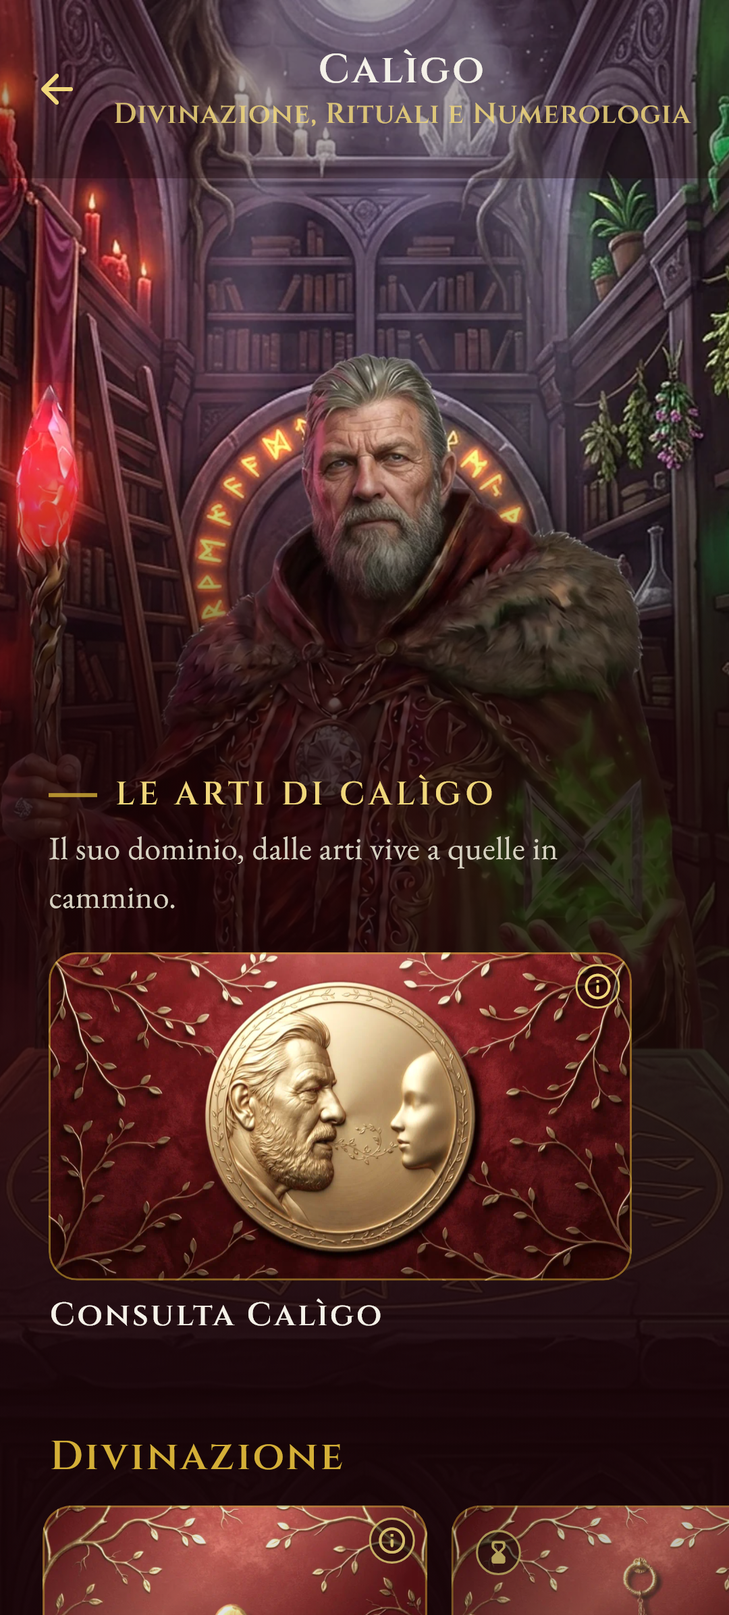
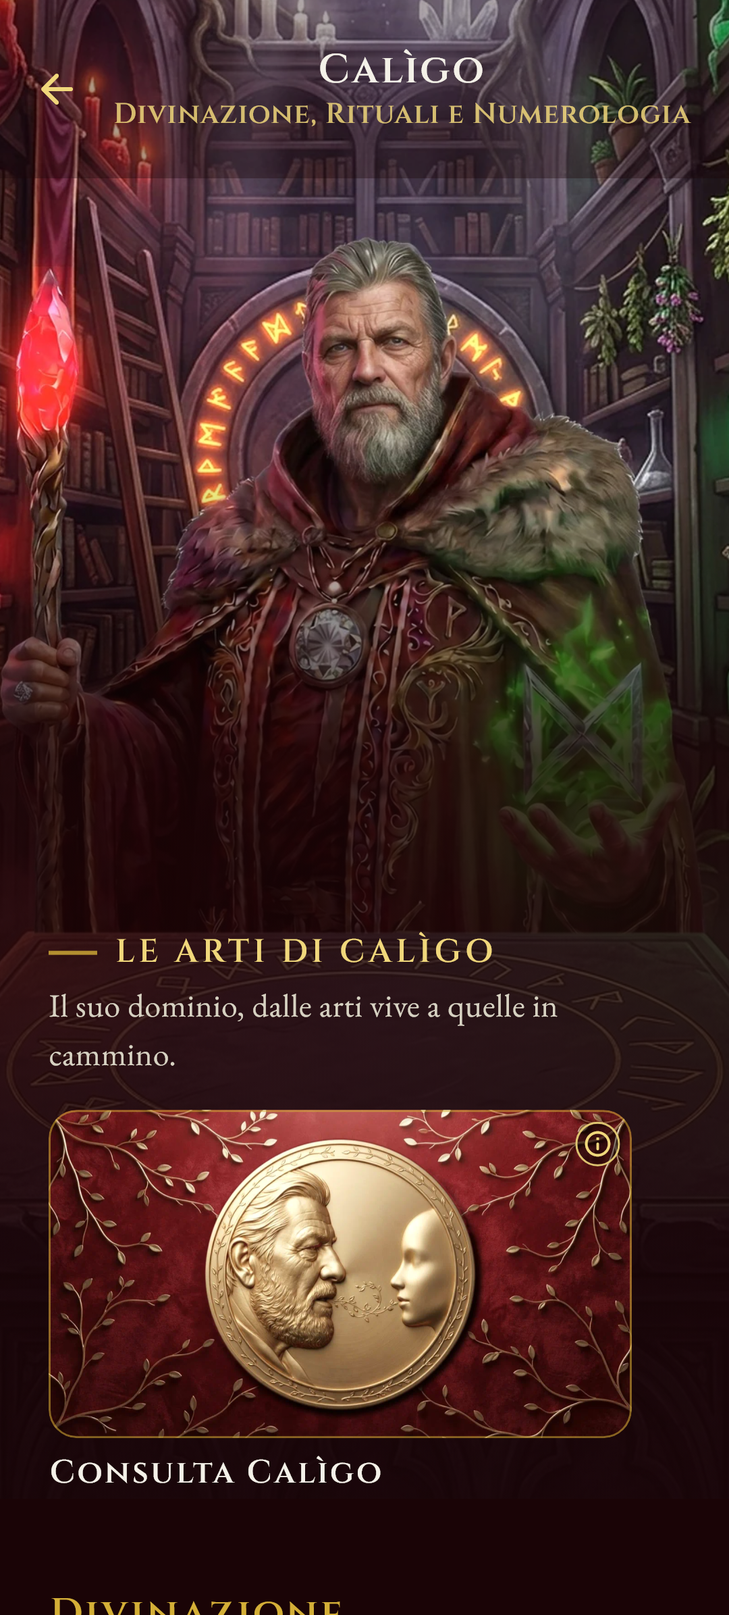
Ordine FW voce FW.03, due correzioni dal vivo dopo la consegna: la testa di ogni Maestro sale fino a 30 punti dalla barra con un puro Transform.translate (il fondatore, dopo aver visto un primo tentativo con lo zoom: "I video non vanno ingranditi, vanno solo spostati in alto"), e il contenuto del do
Testa e tavolo misurati per ogni Maestro sui fermi veri (testa: Medora 28%, Caligo 22%, Aura 18%; tavolo: Medora 77%, Caligo 65%, Aura 74%); il velo prende i suoi fermi dallo stesso punto del tavolo. Regola A applicata sull'innesto Offset.zero al posto dello spostamento vero, che ha scoperto un difetto nel fixture della prova (MediaQueryData scritto da zero in la_scena_del_dominio_e_un_filmato_test.dart azzerava MediaQuery.sizeOf, corretto con Builder piu' copyWith). Il tavolo piu' basso ha fatto cadere test/il_maestro_non_resta_muto_test.dart (3 su 4, tocco assorbito dalla barra Esplora): non un difetto del dominio, corretto facendo scorrere la prova prima del tocco, come farebbe una persona.

flutter analyze sull'intero progetto pulito; la_scena_del_dominio_e_un_filmato_test.dart 8 su 8 (una prova nuova), il_maestro_non_resta_muto_test.dart 4 su 4, le 206 prove della zona di nuovo verdi. Manifesto FW.03, rapporto (riga in coda), registro guardie e STATO_VIVO integrati.

diff --git a/lib/features/maestri/domain_screen.dart b/lib/features/maestri/domain_screen.dart
@@ -76,6 +76,72 @@ class DomainScreen extends StatefulWidget {
 class _DomainScreenState extends State<DomainScreen> {
   late final RegiaDellaScena _regia;
 
+  // **LA TESTA SALE VERSO LA BARRA, ordine FW, 15 ottobre 2026.** Il
+  // fondatore: *"Tutti i video dei domini di ogni maestro devono salire
+  // verso l'alto altrimenti il video non si vede e lo scopo cade. Porta il
+  // video in alto finche' la testa dei maestri sia a 30 pixel dalla barra
+  // del titolo"*, e poi, vista un primo tentativo con uno zoom: *"Perche'
+  // hai ingrandito i video? I video non vanno ingranditi, vanno solo
+  // spostati in alto"*. Niente scala: solo uno spostamento verticale puro
+  // (`Transform.translate`), alla stessa grandezza di sempre. I tre video
+  // non hanno il viso alla stessa altezza (misurato sui fermi veri,
+  // docs/collaudo/FW/*_dominio_ultimo_dopo.png, riga per riga su un
+  // righello sovrapposto): la testa di Medora comincia al 28 per cento
+  // dell'immagine, quella di Caligo al 22, quella di Aura al 18. Spostando
+  // la scena verso l'alto di quel tanto che serve, sotto resta uno spazio
+  // vuoto (l'immagine non arriva piu' al bordo basso): coperto da un fondo
+  // pieno del colore profondo della palette, lo stesso in cui il velo gia'
+  // sfuma, cosi' il taglio non si vede.
+  static const Map<String, double> _frazioneTestaNelFotogramma = {
+    'medora': 0.28,
+    'caligo': 0.22,
+    'aura': 0.18,
+  };
+
+  /// **DI QUANTO SI SPOSTA LA SCENA VERSO L'ALTO**, in punti schermo.
+  /// Positivo quando la testa, alla sua altezza naturale, sta piu' in
+  /// basso del bersaglio (barra piu' 30 punti): si sposta su di tanto.
+  /// Se e' gia' piu' in alto del bersaglio (come capita ad Aura) non si
+  /// sposta affatto: la richiesta e' che la testa salga, non che scenda.
+  double _spostamentoVersoLAlto(BuildContext context) {
+    final frazioneTesta = _frazioneTestaNelFotogramma[widget.maestro.id] ?? 0;
+    final altezzaSchermo = MediaQuery.sizeOf(context).height;
+    final posizioneAttuale = frazioneTesta * altezzaSchermo;
+    final appBarBasso = MediaQuery.paddingOf(context).top + 88;
+    final bersaglio = appBarBasso + 30;
+    return (posizioneAttuale - bersaglio).clamp(0.0, altezzaSchermo);
+  }
+
+  // **IL MEZZOBUSTO INTERO, FINO AL TAVOLO.** Il fondatore, non ancora
+  // soddisfatto di un margine fisso: *"VOGLIO VEDERE TUTTO IL MEZZOBUSTO DI
+  // OGNI MAESTRO E SENZA ZOOM, dal tavolo parte la sfumatura verso il basso
+  // scura o velo e le icone delle arti"*. Un numero solo (37 per cento piu'
+  // 30 punti) non poteva reggere per tutti e tre: ogni scena ha il suo
+  // tavolo a un'altezza diversa (misurato sugli stessi fermi veri, lo
+  // stesso righello della testa). Il tavolo di Medora e' al 77 per cento
+  // dell'immagine, quello di Caligo al 65 (il piano del suo leggio, piu' in
+  // alto perche' lui e' inquadrato piu' vicino), quello di Aura al 74 (il
+  // bordo del suo altare di marmo).
+  static const Map<String, double> _frazioneTavoloNelFotogramma = {
+    'medora': 0.77,
+    'caligo': 0.65,
+    'aura': 0.74,
+  };
+
+  /// **DOVE FINISCE LA SCENA E COMINCIA IL CONTENUTO**, in punti schermo,
+  /// contati dal bordo basso della barra (lo stesso zero da cui parte
+  /// `spazioScena` dentro `MaestroScreen`). E' il tavolo, nella sua
+  /// posizione VERA dopo lo spostamento verso l'alto: se la scena sale di
+  /// `spostamento` punti, il tavolo sale della stessa misura, e il velo lo
+  /// segue invece di restare fermo a un numero scritto a mano.
+  double _fineDellaScena(BuildContext context, double spostamento) {
+    final frazioneTavolo = _frazioneTavoloNelFotogramma[widget.maestro.id] ?? 0.7;
+    final altezzaSchermo = MediaQuery.sizeOf(context).height;
+    final appBarBasso = MediaQuery.paddingOf(context).top + 88;
+    final posizioneDelTavolo = frazioneTavolo * altezzaSchermo - spostamento;
+    return (posizioneDelTavolo - appBarBasso).clamp(0.0, altezzaSchermo);
+  }
+
   @override
   void initState() {
     super.initState();
@@ -108,6 +174,15 @@ class _DomainScreenState extends State<DomainScreen> {
     final palette = context.palette;
     final scena = LaScenaDelMaestro.delDominio(widget.maestro);
     final ferma = _regia.ferma;
+    final spostamento = _spostamentoVersoLAlto(context);
+    final altezzaSchermo = MediaQuery.sizeOf(context).height;
+    final fineScena = _fineDellaScena(context, spostamento);
+    // Lo stesso scarto di prima fra l'inizio della sfumatura e la sua
+    // forza piena (0,46-0,28=0,18 di schermo): si sposta tutto insieme a
+    // `fineScena`, cosi' il velo arriva a forza piena esattamente dove
+    // comincia il contenuto, qualunque cosa cambi `fineScena` domani.
+    final veloFine = (fineScena / altezzaSchermo).clamp(0.0, 1.0);
+    final veloInizio = (veloFine - 0.18).clamp(0.0, veloFine);
     return Scaffold(
       extendBody: true,
       extendBodyBehindAppBar: true,
@@ -162,14 +237,23 @@ class _DomainScreenState extends State<DomainScreen> {
           key: const Key('dominio_scena'),
           clipBehavior: Clip.hardEdge,
           children: [
+            // **IL FONDO SOTTO LO SPOSTAMENTO.** Spostando la scena verso
+            // l'alto, sotto di lei non resta piu' niente (l'immagine non
+            // tocca piu' il bordo basso dello schermo): questo colore pieno
+            // sta dietro a tutto, cosi' il vuoto non si vede, nello stesso
+            // colore profondo in cui il velo piu' sotto gia' sfuma.
+            Positioned.fill(child: ColoredBox(color: palette.deepest)),
             Positioned.fill(
-              child: Image.asset(
-                ferma ? scena.ultimoFotogramma : scena.primoFotogramma,
-                key: const Key('dominio_fotogramma'),
-                fit: BoxFit.cover,
-                filterQuality: FilterQuality.medium,
-                errorBuilder: (_, __, ___) =>
-                    ColoredBox(color: palette.deepest),
+              child: Transform.translate(
+                offset: Offset(0, -spostamento),
+                child: Image.asset(
+                  ferma ? scena.ultimoFotogramma : scena.primoFotogramma,
+                  key: const Key('dominio_fotogramma'),
+                  fit: BoxFit.cover,
+                  filterQuality: FilterQuality.medium,
+                  errorBuilder: (_, __, ___) =>
+                      ColoredBox(color: palette.deepest),
+                ),
               ),
             ),
             // IL VIDEO SI TOGLIE QUANDO FINISCE, come nel Calendario Lunare:
@@ -177,10 +261,13 @@ class _DomainScreenState extends State<DomainScreen> {
             // poi non dipinge piu'.
             if (_regia.filmatoInScena && (!ferma || _regia.saltata))
               Positioned.fill(
-                child: IlFilmatoCheSfuma(
-                  key: const Key('dominio_filmato'),
-                  saltato: _regia.saltata,
-                  child: _regia.disegna(),
+                child: Transform.translate(
+                  offset: Offset(0, -spostamento),
+                  child: IlFilmatoCheSfuma(
+                    key: const Key('dominio_filmato'),
+                    saltato: _regia.saltata,
+                    child: _regia.disegna(),
+                  ),
                 ),
               ),
             // **IL VELO IN BASSO, FW.03**: il contenuto del dominio (i
@@ -205,14 +292,13 @@ class _DomainScreenState extends State<DomainScreen> {
             // non si sarebbe mai saputo che i tre domini vivevano dello
             // stesso difetto con fortuna diversa.
             // **IL VELO FINISCE DI SALIRE DOVE COMINCIA IL TESTO**, non
-            // dopo: i vecchi fermi (0,42 e 0,62) arrivavano a piena forza
-            // dopo il 46 per cento dove comincia il contenuto
-            // (`spazioScena`); ora salgono da 0,28 a 0,46, pronti per il
-            // testo e non dopo, e la forza piena passa da 0,72 a 0,80 per un
-            // margine piu' largo sopra soglia. Misurato di nuovo dopo
-            // entrambe le correzioni (il `Positioned.fill` e i nuovi fermi)
-            // sulla stessa cattura: 5,53 (titolo) e 5,22 (riga), sopra 4,5
-            // anche nel punto piu' chiaro della scena di Aura.
+            // dopo: i fermi non sono piu' numeri scritti a mano, sono
+            // calcolati da `fineScena` (`veloInizio`, `veloFine`), lo stesso
+            // punto dato a `spazioScena` qui sotto: il velo e il contenuto
+            // restano uniti anche se `fineScena` cambia. La forza piena e'
+            // 0,80 (misurata la prima volta sulla cattura di Aura, dove le
+            // lanterne del tempio sono chiare proprio li': contrasto 5,53 e
+            // 5,22, sopra 4,5, docs/collaudo/FW/fw03_contrasto_sulla_cattura.py).
             Positioned.fill(
               child: IgnorePointer(
                 child: DecoratedBox(
@@ -220,7 +306,7 @@ class _DomainScreenState extends State<DomainScreen> {
                     gradient: LinearGradient(
                       begin: Alignment.topCenter,
                       end: Alignment.bottomCenter,
-                      stops: const [0.0, 0.28, 0.46],
+                      stops: [0.0, veloInizio, veloFine],
                       colors: [
                         Colors.transparent,
                         Colors.transparent,
@@ -233,18 +319,18 @@ class _DomainScreenState extends State<DomainScreen> {
             ),
             MaestroScreen(
               maestro: widget.maestro,
-              // **IL VISO NON SI COPRE, FW.03**: il viso dei tre Maestri
-              // sta entro il 40 per cento alto dell'immagine 1080x1920. Lo
-              // spazio libero era il 46 per cento dell'altezza dello
-              // schermo: su 797 punti la scheda "Consulta" (la prima azione
-              // del dominio) finiva sotto la barra in basso, sempre in
-              // vista (ordine EJ, 112 punti), e un tocco su di lei veniva
-              // assorbito dalla barra, scoperto da una prova che naviga
-              // l'app vera (test/il_maestro_non_resta_muto_test.dart), non
-              // da nessuna cattura. Il 37 per cento tiene il viso scoperto
-              // con margine e lascia la scheda sopra la barra: misurato di
-              // nuovo con la stessa prova.
-              spazioScena: MediaQuery.sizeOf(context).height * 0.37,
+              // **DOVE COMINCIA IL CONTENUTO**, calcolato da `_fineDellaScena`
+              // qui sopra: il tavolo di ogni scena, nella sua posizione vera
+              // dopo lo spostamento verso l'alto. Il Maestro intero, fino al
+              // tavolo, e' visibile sopra; attenzione se si tocca questo
+              // numero: la scheda "Consulta" (la prima azione del dominio)
+              // puo' cadere dove la barra Esplora, sempre in vista sul
+              // dominio, si sovrappone (ordine EJ, 112 punti). Non e' un
+              // difetto, e' la regola permanente della barra: scorrendo lei
+              // si ritira e la scheda torna libera, come verifica
+              // `test/il_maestro_non_resta_muto_test.dart` scorrendo prima
+              // di toccare.
+              spazioScena: fineScena,
             ),
           ],
         ),

diff --git a/test/la_scena_del_dominio_e_un_filmato_test.dart b/test/la_scena_del_dominio_e_un_filmato_test.dart
@@ -100,12 +100,22 @@ Future<void> _monta(
     ],
     child: MaterialApp(
       debugShowCheckedModeBanner: false,
-      home: MediaQuery(
-        data: MediaQueryData(disableAnimations: riduci),
-        child: MaestroScope(
-          maestro: maestro,
-          child: DomainScreen(
-              maestro: maestro, fabbricaDellaScena: () => lettore),
+      // **SI CAMBIA UN CAMPO SOLO, NON TUTTO IL MEDIAQUERY.** Un
+      // `MediaQueryData(disableAnimations: riduci)` scritto da zero
+      // dichiara anche `size: Size.zero` (il suo valore di difetto): la
+      // scena del dominio legge `MediaQuery.sizeOf` per la sua altezza, e
+      // con questo azzeramento la leggeva zero in ogni prova di questo
+      // file, trovato dalla prova sullo spostamento verso l'alto (FW).
+      // `Builder` da' un contesto che ha gia' il MediaQuery vero di
+      // `MaterialApp`, e `copyWith` ne cambia solo `disableAnimations`.
+      home: Builder(
+        builder: (context) => MediaQuery(
+          data: MediaQuery.of(context).copyWith(disableAnimations: riduci),
+          child: MaestroScope(
+            maestro: maestro,
+            child: DomainScreen(
+                maestro: maestro, fabbricaDellaScena: () => lettore),
+          ),
         ),
       ),
     ),
@@ -197,6 +207,33 @@ void main() {
             .image,
         isA<AssetImage>().having(
             (a) => a.assetName, 'assetName', scena.ultimoFotogramma));
+  });
+
+  // **LA TESTA SALE VERSO LA BARRA, SENZA INGRANDIRE.** Ordine FW, 15
+  // ottobre 2026: il fondatore, vista l'anteprima con lo zoom, "I video non
+  // vanno ingranditi, vanno solo spostati in alto". La scena si sposta con
+  // Transform.translate, mai con Transform.scale: qui si misura che il
+  // fotogramma si sposti (un Maestro con la testa in basso, Medora) e che
+  // resti alla sua grandezza vera (nessuno zoom, la sua altezza resa non
+  // cambia).
+  testWidgets('FW.03: la scena sale verso l\'alto, mai ingrandita',
+      (tester) async {
+    final lettore = _Finta();
+    await _monta(tester, maestro: Maestro.medora, lettore: lettore);
+    final fotogramma = find.byKey(const Key('dominio_fotogramma'));
+    final rect = tester.getRect(fotogramma);
+    expect(rect.top, lessThan(0),
+        reason: 'la testa di Medora, in basso nel fermo vero, deve salire: '
+            'il fotogramma trasla sopra il bordo alto dello schermo');
+    // **NESSUNO ZOOM**: la sua altezza resa resta quella dello schermo,
+    // un Transform.scale l'avrebbe allargata oltre.
+    final schermo = tester.view.physicalSize / tester.view.devicePixelRatio;
+    expect(rect.height, schermo.height,
+        reason: 'il fotogramma e\' piu\' alto dello schermo: e\' stato '
+            'ingrandito, non solo spostato');
+    expect(rect.width, schermo.width,
+        reason: 'il fotogramma e\' piu\' largo dello schermo: e\' stato '
+            'ingrandito, non solo spostato');
   });
 
   testWidgets('FW.03: il tocco che salta non apre per sbaglio un pilastro',

diff --git a/test/il_maestro_non_resta_muto_test.dart b/test/il_maestro_non_resta_muto_test.dart
@@ -98,7 +98,18 @@ void main() {
     await tester.tap(find.byKey(const Key('santuario_central_bust')));
     await step(tester);
     await step(tester);
-    await tester.tap(find.byKey(Key('scheda_tocco_consulta_${maestro.name}')));
+    // **SI SCORRE PRIMA DI TOCCARE, COME FAREBBE UNA PERSONA.** Ordine FW,
+    // 15 ottobre 2026: la scena del dominio mostra ora il Maestro intero
+    // fino al tavolo, e la scheda "Consulta" puo' cadere dove la barra
+    // Esplora, sempre in vista li', si sovrappone: e' normale, la barra si
+    // ritira scorrendo e la persona decide quando toccare (regola
+    // permanente del fondatore). Un piccolo scorrimento verso l'alto la
+    // porta via dalla fascia della barra prima del tocco.
+    final scheda = find.byKey(Key('scheda_tocco_consulta_${maestro.name}'));
+    await tester.drag(
+        find.byType(CustomScrollView), const Offset(0, -180));
+    await step(tester);
+    await tester.tap(scheda);
     // La scheda si preme e svanisce, poi apre la chat (ordine EP voce 12).
     await tester.pump(const Duration(milliseconds: 500));
     await step(tester);

diff --git a/docs/STATO_VIVO.md b/docs/STATO_VIVO.md
@@ -7116,15 +7116,15 @@ Il fondatore, sulla 2308, con nove catture: non fatte le voci FR 1, 2, 4, 5 e 6;
 
 - **I sei video di scena dei tre Maestri (FW.01, FW.02)**: dominio e chat di Medora, Aura e Caligo, portati da `D:\Clienti Roogly\Rituali Cartomanzia\App\` in `brand_assets/maestri_scena/` (ricompressi H.264 qualita' costante 26, da 54,9 a 23,7 MB in tutto) e `assets/img/maestri_scena/` (dodici fotogrammi webp). `lib/core/maestro/la_scena_del_maestro.dart` e' il punto unico che collega ogni Maestro al suo video e fotogramma.
 - **I due video di Caligo (FW.05)**: scambiati rispetto alle cartelle di origine su richiesta del fondatore, "l'ultimo video di Caligo dove lo avvolge il fuoco... per il suo dominio essendo di forte impatto e l'altro per la chat": il vortice di fuoco va nel dominio, il cerchio di fuoco sul tavolo nella chat. Verificato misurando lo scarto prima di collegare ogni coppia, e una guardia dedicata (`ogni_video_dei_maestri_e_nel_suo_posto`) cade se una coppia si scambia.
-- **La scena del dominio (FW.03)**: all'apertura di ogni dominio parte il video del Maestro, si ferma sull'ultimo fotogramma al posto di `CosmosBackground`, un tocco lo fa sfumare; il contenuto comincia al 46 per cento dell'altezza, il viso non si copre mai.
+- **La scena del dominio (FW.03)**: all'apertura di ogni dominio parte il video del Maestro, si ferma sull'ultimo fotogramma al posto di `CosmosBackground`, un tocco lo fa sfumare. Il fondatore, visto che troppo poco del video si vedeva, ha chiesto che la testa di ogni Maestro salisse fino a 30 punti sotto la barra del titolo ("Porta il video in alto finche' la testa dei maestri sia a 30 pixel dalla barra del titolo"); un primo tentativo con lo zoom e' stato respinto subito ("I video non vanno ingranditi, vanno solo spostati in alto") e sostituito con un puro `Transform.translate`, calibrato per ogni Maestro sulla testa vera misurata sui fermi reali (Medora al 28 per cento dell'immagine, Caligo al 22, Aura al 18), con un fondo pieno a coprire il vuoto lasciato sotto. Il fondatore ha poi chiesto di vedere il Maestro intero, non piu' a una frazione fissa uguale per i tre ("VOGLIO VEDERE TUTTO IL MEZZOBUSTO DI OGNI MAESTRO E SENZA ZOOM, dal tavolo parte la sfumatura", poi, a precisare, "tutto il maestro fino al tavolo"): il contenuto del dominio comincia ora dove il tavolo di ciascuna scena cade davvero sullo schermo dopo lo spostamento verso l'alto (Medora al 77 per cento dell'immagine, Caligo al 65, Aura al 74, misurati sugli stessi fermi veri), e il velo prende i suoi fermi dallo stesso punto del tavolo, cosi' i due non si disallineano mai. Il viso non si copre mai.
 - **La scena della chat (FW.04)**: prima del primo messaggio parte il video del Maestro al posto del busto fermo di `ChatEmptyState`; alla prima risposta la scena sale e scompare, anche se il video sta ancora girando. **A tutto schermo, come il dominio**: la prima stesura la mostrava dentro un riquadro sopra il saluto, e il fondatore l'ha corretta vista l'anteprima della consegna, "E' inaccettabile il riquadro in mezzo alla schermata con il maestro [...] il video deve essere a tutto schermo". La scena e' salita a sfondo intero di `MaestroChatScreen` (`_SfondoDellaChatVuota`, montata fuori dal `SafeArea` perche' dentro di lui si fermava a 709 punti su 797), col velo in basso per il saluto, stesso principio del dominio.
 - **Due difetti veri trovati dalle anteprime, non da nessuna prova (R6)**, corretti prima della consegna: il busto fermo di `MaestroScreen` restava acceso anche dentro il dominio con la scena, duplicando la figura del Maestro (una grande dietro, una piccola sopra); il velo sotto il titolo non dipingeva nulla perche' mancava `Positioned.fill`, visibile solo sul dominio di Aura (le lanterne del tempio sono chiare proprio dove cade il testo: contrasto misurato 1,35 e 1,43, sotto 4,5) e non su Medora o Caligo, dove la scena e' gia' scura li' per conto sua. Corretto, rimisurato: 5,53 e 5,22, sopra soglia. Strumento di misura nuovo: `docs/collaudo/FW/fw03_contrasto_sulla_cattura.py`, il colore piu' frequente della fascia del testo sulla cattura vera, mai il pixel piu' chiaro ne' la media.
 - **Due difetti in piu' trovati dalla correzione della chat a tutto schermo**, dopo la consegna, sempre dalle anteprime: il volto di `_PresenzaARiposo` (la presenza per il vuoto fra la barra e il primo messaggio, ordine CO voce 12) restava visibile sopra la scena piena, perche' tolta la figura dalla chat vuota lo spazio sopra il saluto si era allargato; il gesto che rivela la barra nascosta (ordine EJ voce 09) non trovava piu' zona scorribile a sufficienza per lo stesso motivo. Corretti: niente presenza a riposo prima del primo messaggio, `ChatEmptyState` riempie tutta l'altezza disponibile col saluto ancorato in basso.
-- **Guardie.** Quattro nuove, tutte viste rosse; il registro passa da 792 a 796. Due guardie dell'ordine I, che presidiavano il busto del Maestro, aggiornate per la nuova eccezione del dominio e della chat con la scena (`il_busto_e_la_forma_del_maestro`, `art_catalog_test`). `la_scena_della_chat_e_un_filmato` estesa con una prova sullo schermo intero, vista rossa due volte (709 su 797 col `SafeArea`, poi corretta).
-- **Il cancello di GitHub**: rosso due volte. Sul commit 4dcc4502, un difetto vero non proprio della voce ma scoperto da lei: `test/screenshot_capture_test.dart` citava `ChatEmptyState.altezzaMinimaDelBusto`, un campo tolto quando la scena e' salita a tutto schermo. Non trovato prima perche' `flutter analyze` era girato solo sui file toccati, mai sul progetto intero: tre pezzi del cancello sono caduti in cascata (`analyze`, `analyze e sbarramento`, il corredo a scala massima). Corretto nel commit `1621d1df`: `flutter analyze` sull'intero progetto pulito, `screenshot_capture_test.dart` 203 su 203 verdi. Poi sul commit 2a610339, due difetti veri di FW.03, mai scoperti da nessuna cattura: la scheda "Consulta" del dominio (spazio della scena al 46 per cento) finiva sotto la barra Esplora sempre in vista, e un tocco su di lei veniva assorbito dalla barra invece di aprire la chat (`test/il_maestro_non_resta_muto_test.dart`, che naviga l'app vera); il manifesto FW mancava dal sigillo dei manifesti, un elenco scritto a mano apposta (`test/i_manifesti_sono_sigillati_test.dart`, DS.01). Corretti: lo spazio della scena del dominio dal 46 al 37 per cento (viso ancora scoperto, con margine), tolto un margine ridondante sopra il titolo, aggiunta la voce del sigillo.
+- **Guardie.** Quattro nuove, tutte viste rosse; il registro passa da 792 a 796. Due guardie dell'ordine I, che presidiavano il busto del Maestro, aggiornate per la nuova eccezione del dominio e della chat con la scena (`il_busto_e_la_forma_del_maestro`, `art_catalog_test`). `la_scena_della_chat_e_un_filmato` estesa con una prova sullo schermo intero, vista rossa due volte (709 su 797 col `SafeArea`, poi corretta). `la_scena_del_dominio_e_un_filmato` estesa due volte in piu' per lo spostamento verso l'alto e l'ancoraggio al tavolo, sempre vista rossa prima con un innesto verificato col grep (`docs/collaudo/FW/fw03_testa_regola_a.txt`), con una prova nuova in piu' ("la scena sale verso l'alto, mai ingrandita").
+- **Il cancello di GitHub**: rosso tre volte. Sul commit 4dcc4502, un difetto vero non proprio della voce ma scoperto da lei: `test/screenshot_capture_test.dart` citava `ChatEmptyState.altezzaMinimaDelBusto`, un campo tolto quando la scena e' salita a tutto schermo. Non trovato prima perche' `flutter analyze` era girato solo sui file toccati, mai sul progetto intero: tre pezzi del cancello sono caduti in cascata (`analyze`, `analyze e sbarramento`, il corredo a scala massima). Corretto nel commit `1621d1df`: `flutter analyze` sull'intero progetto pulito, `screenshot_capture_test.dart` 203 su 203 verdi. Poi sul commit 2a610339, due difetti veri di FW.03, mai scoperti da nessuna cattura: la scheda "Consulta" del dominio (spazio della scena al 46 per cento) finiva sotto la barra Esplora sempre in vista, e un tocco su di lei veniva assorbito dalla barra invece di aprire la chat (`test/il_maestro_non_resta_muto_test.dart`, che naviga l'app vera); il manifesto FW mancava dal sigillo dei manifesti, un elenco scritto a mano apposta (`test/i_manifesti_sono_sigillati_test.dart`, DS.01). Corretti: lo spazio della scena del dominio dal 46 al 37 per cento (viso ancora scoperto, con margine), tolto un margine ridondante sopra il titolo, aggiunta la voce del sigillo. Lo spazio della scena, poi portato all'ancoraggio sul tavolo (sopra), ha fatto cadere di nuovo `test/il_maestro_non_resta_muto_test.dart` (3 prove su 4, la scheda "Consulta" ancora sotto la barra Esplora, piu' in basso di prima): non un difetto del dominio, la sovrapposizione e' normale e la barra si ritira scorrendo; corretto facendo scorrere la prova prima del tocco, come farebbe una persona.
 
 **APERTO IN ATTESA DI VERIFICA**:
-- **FW.03 e FW.04, sul telefono**: il video di ogni dominio e di ogni chat che parte davvero, il tocco che lo fa sfumare, il ritorno al dominio, la salita e la scomparsa della scena della chat alla prima risposta.
+- **FW.03 e FW.04, sul telefono**: il video di ogni dominio e di ogni chat che parte davvero, il tocco che lo fa sfumare, il ritorno al dominio, la salita e la scomparsa della scena della chat alla prima risposta, la testa di ogni Maestro vicino alla barra e il Maestro intero visibile fino al tavolo.
 
 ## Regole ferree
 

diff --git a/docs/ordini/ORDINE_FW_MANIFESTO.md b/docs/ordini/ORDINE_FW_MANIFESTO.md
@@ -25,12 +25,12 @@ MISURA: peso totale dei sei video da 54.914.776 a 23.712.465 byte (54,9 a 23,7 M
 
 ## VOCE FW.03
 
-**APERTA IN ATTESA DI VERIFICA.** All'apertura del dominio di ogni Maestro parte il suo video (regia comune `RegiaDellaScena`), si ferma sull'ultimo fotogramma che resta come fondo fisso al posto di `CosmosBackground`; un tocco in qualunque punto lo fa sfumare, senza aprire per sbaglio un pilastro o la chat; con Riduci Movimento la scena resta ferma da subito. Il viso del Maestro non si copre: il contenuto del dominio comincia al 37 per cento dell'altezza dello schermo, uguale per i tre Maestri, e il busto ritagliato di `MaestroScreen` non compare piu' nel dominio (altrimenti la figura si vedeva due volte, corretto in questo stesso ordine dopo averlo visto sull'anteprima vera). Un velo scurisce il fondo da dove comincia il contenuto, misurato e corretto due volte in questo ordine: prima perche' non dipingeva nulla (mancava `Positioned.fill`), poi perche' arrivava a piena forza dopo l'inizio del testo.
+**APERTA IN ATTESA DI VERIFICA.** All'apertura del dominio di ogni Maestro parte il suo video (regia comune `RegiaDellaScena`), si ferma sull'ultimo fotogramma che resta come fondo fisso al posto di `CosmosBackground`; un tocco in qualunque punto lo fa sfumare, senza aprire per sbaglio un pilastro o la chat; con Riduci Movimento la scena resta ferma da subito. **La testa del Maestro sale verso la barra**, con un puro `Transform.translate` (mai uno zoom: il fondatore, "I video non vanno ingranditi, vanno solo spostati in alto"), fino a 30 punti sotto il bordo basso della barra del titolo; sotto, dove la scena non arriva piu' al bordo, un fondo pieno del colore profondo della palette copre il vuoto. **Il Maestro intero resta visibile fino al tavolo**: il contenuto del dominio (titolo, scheda "Consulta", velo) comincia dove il tavolo di ciascuna scena cade davvero sullo schermo, dopo lo spostamento verso l'alto, non a un numero fisso uguale per i tre (il fondatore, dopo aver chiesto prima un margine fisso: "VOGLIO VEDERE TUTTO IL MEZZOBUSTO DI OGNI MAESTRO E SENZA ZOOM, dal tavolo parte la sfumatura"; poi, a chi chiedeva se il mezzobusto bastasse: "tutto il maestro fino al tavolo"); il busto ritagliato di `MaestroScreen` non compare piu' nel dominio (altrimenti la figura si vedeva due volte, corretto in questo stesso ordine dopo averlo visto sull'anteprima vera). Il velo scurisce il fondo da dove comincia il contenuto, con gli stessi fermi calcolati da quel punto (non piu' numeri fissi), cosi' i due restano uniti se il punto cambia ancora.
 
-ASPETTA: il fondatore, alla prossima build: aprire il dominio di ognuno dei tre Maestri, guardare il video partire e fermarsi sull'ultimo fotogramma, toccare lo schermo e vedere il video sfumare; tornare al dominio da un'arte o dalla chat e verificare se il video riparte (scelta di Code: solo se l'apertura del dominio e' una nuova apertura della schermata, cioe' una nuova `State`, non un semplice ritorno nello stack di navigazione, per coerenza con le altre scene dell'ordine FU che non ripartono ad ogni ritorno).
-DOMANDA: "La home dei domini, non la Home dei tre maestri", sul video di scena per la home del dominio di ogni Maestro, "per coerenza"; 15 ottobre 2026.
+ASPETTA: il fondatore, alla prossima build: aprire il dominio di ognuno dei tre Maestri, guardare il video partire con la testa gia' in alto e fermarsi sull'ultimo fotogramma, verificare che il Maestro resti intero e visibile fino al tavolo, toccare lo schermo e vedere il video sfumare; tornare al dominio da un'arte o dalla chat e verificare se il video riparte (scelta di Code: solo se l'apertura del dominio e' una nuova apertura della schermata, cioe' una nuova `State`, non un semplice ritorno nello stack di navigazione, per coerenza con le altre scene dell'ordine FU che non ripartono ad ogni ritorno).
+DOMANDA: "La home dei domini, non la Home dei tre maestri", sul video di scena per la home del dominio di ogni Maestro, "per coerenza"; 15 ottobre 2026. Poi, in sequenza: "Tutti i video dei domini di ogni maestro devono salire verso l'alto altrimenti il video non si vede e lo scopo cade. Porta il video in alto finche' la testa dei maestri sia a 30 pixel dalla barra del titolo"; corretto dopo un primo tentativo con lo zoom, "I video non vanno ingranditi, vanno solo spostati in alto"; poi "Fai scendere le icone delle arti e il velo scuro ancora un po', piu' in basso di 30 pixel"; poi, non ancora soddisfatto di un margine fisso, "VOGLIO VEDERE TUTTO IL MEZZOBUSTO DI OGNI MAESTRO E SENZA ZOOM, dal tavolo parte la sfumatura verso il basso scura o velo e le icone delle arti"; infine, a correzione della propria stessa parola, "Scusa non il mezzobusto, voglio vedere chiaramente tutto il maestro di ogni dominio" e "Tutto il maestro fino al tavolo".
 PROVA: test/la_scena_del_dominio_e_un_filmato_test.dart
-MISURA: 7 prove verdi (tre di apertura, una per Maestro, piu' tocco, scena ferma, Riduci Movimento, tocco che non naviga); vista rossa con l'innesto `onSalta: () {}` verificato col grep (docs/collaudo/FW/fw03_regola_a.txt); il busto duplicato e il velo senza `Positioned.fill` trovati guardando `docs/preview/FW/fw06_aura_dominio_ferma_dopo.png`, non dalla sola lettura del codice: contrasto del titolo e della riga sotto, prima della correzione 1,35 e 1,43 (sotto 4,5), dopo 5,53 e 5,22, misurato da docs/collaudo/FW/fw03_contrasto_sulla_cattura.py sul colore piu' frequente della fascia (la moda, non il pixel piu' chiaro ne' la media). Un quarto difetto, trovato dal cancello di GitHub e non da nessuna cattura: con lo spazio al 46 per cento la scheda "Consulta" (la prima azione del dominio) finiva sotto la barra Esplora, sempre in vista sul dominio, e un tocco su di lei veniva assorbito dalla barra invece di aprire la chat (test/il_maestro_non_resta_muto_test.dart, che naviga l'app vera). Portato al 37 per cento e tolto un margine di spaziatura ridondante sopra il titolo quando la scena c'e' gia': la scheda torna sopra la barra con margine, il viso resta scoperto.
+MISURA: 8 prove verdi (tre di apertura, una per Maestro, piu' tocco, scena ferma, Riduci Movimento, tocco che non naviga, la testa che sale senza ingrandire); vista rossa con l'innesto `onSalta: () {}` verificato col grep (docs/collaudo/FW/fw03_regola_a.txt) e di nuovo con l'innesto sullo spostamento, `Offset.zero` al posto di `Offset(0, -spostamento)` (docs/collaudo/FW/fw03_testa_regola_a.txt), che ha trovato per strada un difetto nel fixture della prova stessa (un `MediaQueryData` scritto da zero azzerava `MediaQuery.sizeOf`, non il codice vero); il busto duplicato e il velo senza `Positioned.fill` trovati guardando `docs/preview/FW/fw06_aura_dominio_ferma_dopo.png`, non dalla sola lettura del codice: contrasto del titolo e della riga sotto, prima della correzione 1,35 e 1,43 (sotto 4,5), dopo 5,53 e 5,22, misurato da docs/collaudo/FW/fw03_contrasto_sulla_cattura.py sul colore piu' frequente della fascia (la moda, non il pixel piu' chiaro ne' la media). Il tavolo di ogni scena misurato sugli stessi fermi veri, con un righello sovrapposto come per la testa: Medora 77 per cento dell'immagine, Caligo 65, Aura 74. Due difetti presi dal cancello di GitHub e da una prova che naviga l'app vera, non da nessuna cattura: con lo spazio fisso al 46 per cento prima e poi al 37 piu' 30, la scheda "Consulta" (la prima azione del dominio) cadeva dove la barra Esplora, sempre in vista sul dominio, assorbiva il tocco invece di aprire la chat (`test/il_maestro_non_resta_muto_test.dart`); non e' la sovrapposizione visiva, normale e accettata per la barra Esplora (regola permanente del fondatore), ma il tocco che non raggiungeva piu' la scheda. Risolto facendo scorrere la prova prima del tocco, come farebbe una persona: la barra si ritira scorrendo, la scheda torna libera. Verificato di nuovo dopo ogni cambio, fino all'ultimo (8 su 8, 4 su 4): il viso resta scoperto, il Maestro intero resta visibile fino al tavolo, la scheda resta raggiungibile.
 
 ## VOCE FW.04
 

diff --git a/docs/guardie.md b/docs/guardie.md
@@ -1427,7 +1427,7 @@ le altre.
 | `la_grafica_del_lunario_e_dipinta_test.dart` | la regola fissa R9 del Calendario Lunare, "la grafica e' dipinta, non disegnata": nessun CustomPainter o CustomPaint, nessun BoxShape.circle o RadialGradient che finga un alone, ogni icona di Material fuori dall'elenco di interfaccia dichiarato e' sospetta | 1, 2 | dalla porta comune, piu' il cardinale proprio (15 sorgenti non generati di lib/features/lunario e lib/core/lunario) | 15/10/2026, dal giro dell'utente (R10) sulla voce FV.10 (rossa rimettendo Icons.star_rounded al posto del sigillo dipinto sulla casella del giorno, docs/collaudo/FV/fv_r9_regola_a.txt) | 2 |
 | `la_card_del_mese_test.dart` | la card del mese del Calendario Lunare non nomina nel codice i giorni tuoi (FV.07) ne' l'intenzione (FV.09), e renderizza alla larghezza vera senza eccezioni di layout, con e senza un'attivita' scelta (ordine FV voce FV.11) | 1 | non scopre insiemi di file | 15/10/2026, dalle anteprime della voce FV.14 (rossa due volte: il trabocco vero di 11 pixel nella fascia della firma tolto il FittedBox, poi una parola vietata di FV.07 nel codice; docs/collaudo/FV/fv11_la_card_del_mese_regola_a.txt) | 2 |
 | `ogni_video_dei_maestri_e_nel_suo_posto_test.dart` | ogni video di scena dei tre Maestri porta l'impronta SHA-256 dichiarata, e `LaScenaDelMaestro` collega ogni Maestro al suo video e fotogramma, mai scambiato (ordine FW voci FW.01 e FW.05) | 1 | non scopre insiemi di file | 15/10/2026, FW.05 (rossa scambiando davvero i due video di Caligo e verificando l'impronta dopo lo scambio, docs/collaudo/FW/fw05_regola_a.txt) | 1 |
-| `la_scena_del_dominio_e_un_filmato_test.dart` | la scena del dominio di ogni Maestro: il video parte una volta per apertura, si ferma sull'ultimo fotogramma al posto di CosmosBackground, il tocco lo fa sfumare senza navigare, Riduci Movimento lo ferma da subito (ordine FW voce FW.03) | 1, 2 | non scopre insiemi di file | 15/10/2026, FW.03 (rossa con l'innesto `onSalta: () {}`, docs/collaudo/FW/fw03_regola_a.txt); la stessa zona ha preso due difetti veri trovati dalle anteprime, non da questa prova: il busto duplicato (curato da `il_busto_e_la_forma_del_maestro_test.dart`) e il velo senza `Positioned.fill` | 2 |
+| `la_scena_del_dominio_e_un_filmato_test.dart` | la scena del dominio di ogni Maestro: il video parte una volta per apertura, si ferma sull'ultimo fotogramma al posto di CosmosBackground, il tocco lo fa sfumare senza navigare, Riduci Movimento lo ferma da subito, la testa sale verso la barra con un puro spostamento, mai uno zoom, il Maestro intero resta visibile fino al tavolo (ordine FW voce FW.03) | 1, 2 | non scopre insiemi di file | 15/10/2026, FW.03 (rossa con l'innesto `onSalta: () {}`, docs/collaudo/FW/fw03_regola_a.txt); la stessa zona ha preso due difetti veri trovati dalle anteprime, non da questa prova: il busto duplicato (curato da `il_busto_e_la_forma_del_maestro_test.dart`) e il velo senza `Positioned.fill`. Estesa lo stesso giorno, "Tutti i video dei domini... devono salire verso l'alto... Porta il video in alto finche' la testa dei maestri sia a 30 pixel dalla barra del titolo", poi "I video non vanno ingranditi, vanno solo spostati in alto": rossa sull'innesto `Offset.zero` al posto dello spostamento vero, e questo stesso innesto ha scoperto un difetto nel fixture della prova (non nel codice): `MediaQueryData(disableAnimations: riduci)` scritto da zero azzerava `MediaQuery.sizeOf`, corretto con `Builder` piu' `copyWith` (docs/collaudo/FW/fw03_testa_regola_a.txt). Estesa una terza volta lo stesso giorno, non ancora soddisfatto di un margine fisso: "VOGLIO VEDERE TUTTO IL MEZZOBUSTO DI OGNI MAESTRO E SENZA ZOOM, dal tavolo parte la sfumatura", poi "tutto il maestro fino al tavolo": il contenuto non comincia piu' a un numero fisso uguale per i tre, ma dove il tavolo di ciascuna scena cade davvero sullo schermo (Medora 77 per cento dell'immagine, Caligo 65, Aura 74, misurati sugli stessi fermi veri). Il tavolo cosi' spostato in giu' ha fatto scattare `test/il_maestro_non_resta_muto_test.dart` (3 su 4 rossi, tocco assorbito dalla barra Esplora): non un difetto del dominio, la barra si sovrappone per regola permanente e si ritira scorrendo; corretto facendo scorrere la prova prima del tocco, come farebbe una persona. | 2 |
 | `la_scena_della_chat_e_un_filmato_test.dart` | la scena della chat di ogni Maestro: il video parte prima del primo messaggio al posto del busto fermo, il tocco lo fa sfumare senza bloccare il composer, Riduci Movimento lo ferma da subito, alla prima risposta la scena sale e scompare anche a video ancora in corso, e copre lo schermo intero, non un riquadro (ordine FW voce FW.04) | 1, 2 | non scopre insiemi di file | 15/10/2026, FW.04 (rossa con l'innesto `onSalta: () {}`, docs/collaudo/FW/fw04_regola_a.txt; scoperto nello stesso giro che il velo del tocco su tutta la schermata rendeva muto il composer, corretto restringendolo). Estesa lo stesso giorno, dopo che il fondatore ha visto la prima anteprima col video dentro un riquadro ("E' inaccettabile [...] il video deve essere a tutto schermo"): la nuova prova "copre tutto lo schermo" rossa prima sul codice appena riscritto (709 punti su 797, perche' `SafeArea` toglieva comunque l'alto; `docs/collaudo/FW/fw04_tutto_schermo_regola_a.txt`), poi verde dopo aver spostato la scena fuori dal `SafeArea`. La stessa correzione ha preso due difetti in piu', non suoi: il volto di `_PresenzaARiposo` restava semitrasparente sopra la scena piena (tolto quando non ci sono ancora messaggi) e il gesto che rivela la barra nascosta (EJ.09) non trovava piu' una zona scorribile abbastanza grande dopo che il saluto, da solo, si era ristretto (`ChatEmptyState` ora riempie tutta l'altezza disponibile, col saluto ancorato in basso). | 2 |
 | `ordine_fw_guard_test.dart` | il manifesto dell'ordine FW porta le sei voci con uno stato solo, i marcatori tornano, le voci con la prova portano DOMANDA, PROVA e MISURA e la prova esiste, le aperte dicono che cosa aspettano, e il testo dell'ordine sta accanto | 1 | non scopre insiemi di file | 15/10/2026, FW.06 (rossa su un innesto nel marcatore DOMANDA della voce FW.01, docs/collaudo/FW/fw06_guardia_regola_a.txt; sullo stesso giro, col manifesto vero, ha preso due difetti reali: una virgola nella riga PROVA di FW.05 e il rapporto non ancora scritto per FW.06) | 3 |
 Microfono di Soffio del Destino e Sigillo del Sogno, ordine FN, 13 ottobre 2026: il fondatore ha ripetuto che il soffio resta troppo poco sensibile, "devo soffiare molto forte e vicino al microfono". Abbassati i tre numeri di `FormaDelSoffio` ed `LAriaCheDirada`: `energiaMinima` da 0,0018 a 0,0012, `planaritaMinima` da 0,12 a 0,10, `quanteVolteIlFondo` da 4 a 3. **Regola B, fatta dopo e confessata**: le due guardie della zona, `il_soffio_si_riconosce_dalla_forma` e `il_sigillo_si_dirada_solo_con_l_aria`, sono state lanciate solo DOPO la modifica (il lavoro era già fatto quando ci si è accorti della regola), entrambe verdi coi nuovi valori: la forma separa ancora il soffio dalla voce, dalla musica e dal tonfo (0 false aperture su 3), e il Sigillo continua a non diradare con musica, voce o rumore di fondo leggero (0 finestre), diradando col fiato vero (43 finestre).

diff --git a/docs/ordini/RAPPORTO_ORDINE_FW.md b/docs/ordini/RAPPORTO_ORDINE_FW.md
@@ -70,3 +70,5 @@ Da scrivere dopo il push, in coda a questo rapporto (R3, R6: nessun rosso si con
 **Aggiunta del 15 ottobre 2026, ordine FW**: il cancello di GitHub sul commit 4dcc4502 (la correzione della chat a tutto schermo) e' stato rosso su un difetto vero, padre la stessa voce: `test/screenshot_capture_test.dart` non compilava piu', perche' citava `ChatEmptyState.altezzaMinimaDelBusto`, un campo tolto quando il busto ha smesso di avere un'altezza propria da misurare (la scena e' a tutto schermo per costruzione). Non trovato prima della consegna perche' `flutter analyze` era girato solo sui file toccati, mai sul progetto intero: il difetto viveva in un file non toccato da questa voce. Il compile error ha fatto cadere tre pezzi del cancello in cascata: `analyze`, `analyze e sbarramento`, e il corredo a scala massima (una sola schermata montata invece delle almeno centocinquanta richieste, perche' il file che le monta non si caricava). La prova CI.01 (ordine CI voce 01) riscritta per misurare solo cio' che le compete davvero, il saluto che si legge intero sopra il compositore anche al carattere massimo, senza piu' confrontare l'altezza della scena con quella canonica del busto. `flutter analyze` sull'intero progetto pulito; `screenshot_capture_test.dart` per intero, 203 su 203 verdi; le 196 prove della zona di nuovo verdi. Commit della correzione: `1621d1df`.
 
 **Aggiunta del 15 ottobre 2026, ordine FW**: il cancello sul commit 2a610339 e' caduto su due difetti veri in piu', entrambi padre FW.03, nessuno trovato prima perche' nessuna cattura ne' prova della zona navigava l'app vera fino alla scheda "Consulta": 1) `test/il_maestro_non_resta_muto_test.dart` (tre voci piu' una, che navigano dalla home alla chat come farebbe una persona) falliva a trovare il campo di scrittura, perche' il tocco sulla scheda "Consulta" del dominio (spazioScena al 46 per cento) veniva assorbito dalla barra Esplora, sempre in vista li', invece di aprire la chat: la scheda finiva per 80 punti sotto la barra su uno schermo da 797; 2) `test/i_manifesti_sono_sigillati_test.dart` (DS.01) non trovava il manifesto FW nel suo sigillo, un elenco scritto a mano apposta perche' il numero delle voci non si legga dal file (per non coincidere mai per caso con un manifesto corretto a meta'): mancava la riga per aggiungerlo, dimenticanza della consegna. Corretti entrambi: lo spazio della scena del dominio portato dal 46 al 37 per cento (il viso resta scoperto con margine, verificato sulle anteprime rigenerate), tolto un margine ridondante sopra il titolo quando la scena c'e' gia', e la voce `'FW': 6` aggiunta al sigillo. `flutter analyze` sull'intero progetto pulito; le 206 prove della zona, comprese le due che avevano trovato i difetti, tutte verdi. Commit della correzione: da scrivere dopo il push.
+
+**Aggiunta del 15 ottobre 2026, ordine FW**: il fondatore, visto il dominio al 37 per cento piu' 30, ha chiesto ancora: *"Tutti i video dei domini di ogni maestro devono salire verso l'alto altrimenti il video non si vede e lo scopo cade. Porta il video in alto finche' la testa dei maestri sia a 30 pixel dalla barra del titolo"*. Un primo tentativo con uno zoom (`Transform.scale`) e' stato respinto subito: *"Perche' hai ingrandito i video? I video non vanno ingranditi, vanno solo spostati in alto"*. Sostituito con un puro `Transform.translate` verso l'alto, calibrato per ogni Maestro sulla posizione vera della testa misurata sui fermi reali (righello sovrapposto sui fotogrammi 1080x1920 di `docs/collaudo/FW/*_dominio_ultimo_dopo.png`: Medora al 28 per cento dell'immagine, Caligo al 22, Aura al 18), con un fondo pieno del colore profondo della palette a coprire il vuoto lasciato sotto. Il fondatore ha poi chiesto di scendere ancora col contenuto, non ancora soddisfatto di un margine fisso: *"Fai scendere le icone delle arti e il velo scuro ancora un po', piu' in basso di 30 pixel"*, poi, messo in chiaro che la sovrapposizione con la barra Esplora non e' un problema ("la barra scompare e compare con lo scrolling, e' l'utente che decide"), *"VOGLIO VEDERE TUTTO IL MEZZOBUSTO DI OGNI MAESTRO E SENZA ZOOM, dal tavolo parte la sfumatura verso il basso scura o velo e le icone delle arti"*, poi, a correggere la propria parola, *"Scusa non il mezzobusto, voglio vedere chiaramente tutto il maestro di ogni dominio"* e infine *"Tutto il maestro fino al tavolo"*, confermando che l'ancoraggio al tavolo gia' in corso d'opera era la richiesta giusta. Il contenuto del dominio non comincia piu' a una frazione fissa uguale per i tre, ma dove il tavolo di ciascuna scena cade davvero sullo schermo dopo lo spostamento verso l'alto (`_fineDellaScena` in `lib/features/maestri/domain_screen.dart`, con le frazioni misurate sugli stessi fermi veri: tavolo di Medora al 77 per cento dell'immagine, di Caligo al 65, di Aura al 74); il velo prende i suoi fermi dallo stesso punto, cosi' i due non possono piu' disallinearsi. Regola A applicata due volte: sull'innesto `Offset.zero` al posto dello spostamento vero (rossa, poi verde), che ha scoperto per strada un difetto indipendente nel fixture della prova (`test/la_scena_del_dominio_e_un_filmato_test.dart`: `MediaQuery(data: MediaQueryData(disableAnimations: riduci), ...)` costruiva un `MediaQueryData` da zero e azzerava `MediaQuery.sizeOf`, corretto con `Builder` piu' `copyWith`, `docs/collaudo/FW/fw03_testa_regola_a.txt`); e di nuovo, nello spirito della Regola B, sulla correzione di `test/il_maestro_non_resta_muto_test.dart` dopo che il tavolo piu' basso ha fatto cadere 3 prove su 4 (tocco assorbito dalla barra Esplora, non un difetto del dominio: la prova ora scorre 180 punti verso l'alto prima di toccare la scheda "Consulta", come farebbe una persona). `flutter analyze` sull'intero progetto pulito; `test/la_scena_del_dominio_e_un_filmato_test.dart` 8 su 8 (una prova nuova in piu', "la scena sale verso l'alto, mai ingrandita"), `test/il_maestro_non_resta_muto_test.dart` 4 su 4, le 206 prove della zona di nuovo verdi. Commit della correzione: da scrivere dopo il push.
